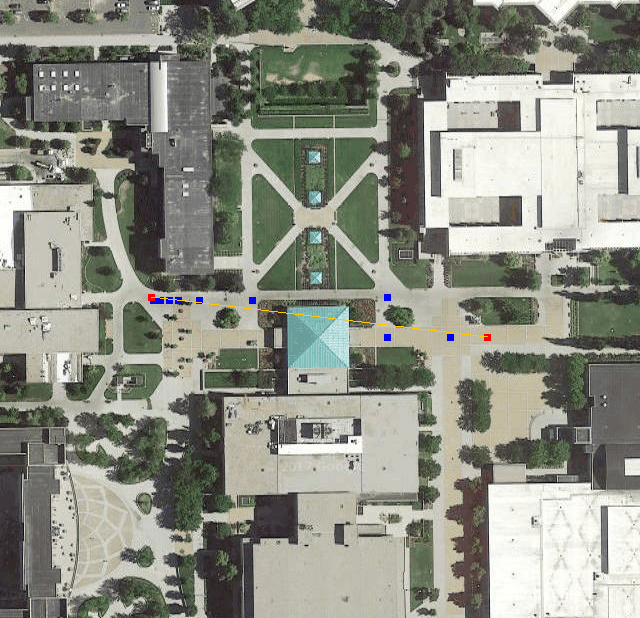
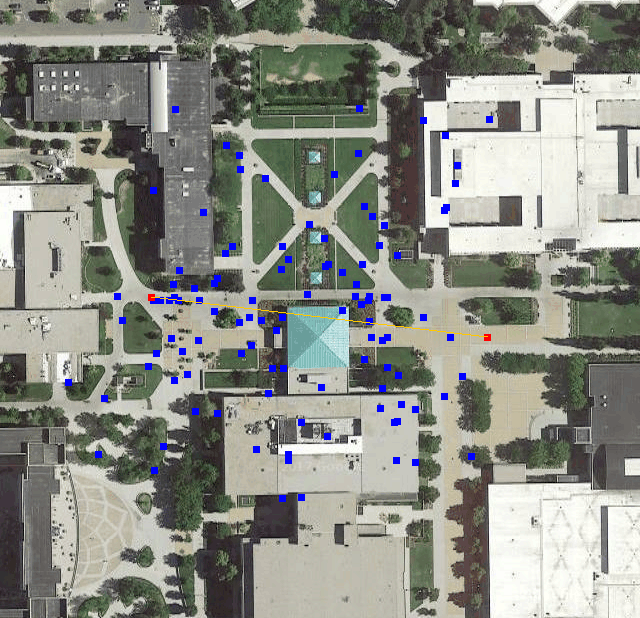
graph tests now works

diff --git a/src/generic/Graph.java b/src/generic/Graph.java
@@ -26,6 +26,24 @@ public class Graph {
 		this.nodes = nodes;
 	}
 
+	public int getStartIndex() {
+		for (int i = 0; i < nodes.size(); i++) {
+			if (nodes.get(i).isStart()) {
+				return i;
+			}
+		}
+		return 0;
+	}
+
+	public int getEndIndex() {
+		for (int i = 0; i < nodes.size(); i++) {
+			if (nodes.get(i).isEnd()) {
+				return i;
+			}
+		}
+		return nodes.size() - 1;
+	}
+
 	public void setDistancesFromNodes() {
 		distance = new double[nodes.size()][nodes.size()];
 		for (int i = 0; i < nodes.size(); i++) {
@@ -50,7 +68,7 @@ public class Graph {
 
 	public void setElevationsFromNodes() {
 		String elevResp = APITools.GetElevationResponse(nodes);
-	    double[] elevs = APITools.GetElevations(elevResp, nodes);
+		double[] elevs = APITools.GetElevations(elevResp, nodes);
 		elevation = new double[nodes.size()][];
 		for (int i = 0; i < nodes.size(); i++) {
 			elevation[i] = new double[nodes.size()];
@@ -76,14 +94,14 @@ public class Graph {
 	public double getDistance(int startNode, int endNode) {
 		return distance[startNode][endNode];
 	}
+
 	public double getElevation(int startNode, int endNode) {
 		return elevation[startNode][endNode];
 	}
-	
-	public double getCost(int startNode, int endNode, UserPrefs prefs)
-	{
-		return (prefs.getDistanceWeight() > 0 ? getDistance(startNode, endNode) * prefs.getDistanceWeight() : 0) +
-			   (prefs.getElevationWeight() > 0 ? getElevation(startNode, endNode) * prefs.getElevationWeight() : 0);
+
+	public double getCost(int startNode, int endNode, UserPrefs prefs) {
+		return (prefs.getDistanceWeight() > 0 ? getDistance(startNode, endNode) * prefs.getDistanceWeight() : 0)
+				+ (prefs.getElevationWeight() > 0 ? getElevation(startNode, endNode) * prefs.getElevationWeight() : 0);
 	}
 
 	public List<Double> getDistanceList(int startNode) {

diff --git a/tests/server/GraphTests.java b/tests/server/GraphTests.java
@@ -80,31 +80,24 @@ public class GraphTests {
 		String[] polyPieces = server.APITools.GetPolylinePieces(resp);
 		String poly = server.APITools.GetOverviewPolyline(resp);
 		List<Node> nodes = generic.GraphTools.CreateNodesFromPolyline(polyPieces);
-
+		nodes.get(0).setStart(true);
+		nodes.get(nodes.size() - 1).setEnd(true);
 		BufferedImage img = server.APITools.DownloadStaticMapImage(start, end, sizeX, sizeY, zoom, true);
 
 		double metersPerPixel = APITools.getMetersPerPixel(center.latitude, zoom);
 		LatLng southwest = APITools.getSouthwest(center, metersPerPixel, sizeX, sizeY);
 		LatLng northeast = APITools.getNortheast(center, metersPerPixel, sizeX, sizeY);
 
-		List<Node> newNodes = generic.GraphTools.GenerateRandomNodes(nodes, 5, southwest, northeast);
-		// nodes.addAll(newNodes);
-
+		List<Node> newNodes = generic.GraphTools.GenerateRandomNodes(nodes, 100, southwest, northeast);
+		nodes.addAll(newNodes);
 		Graph g = new Graph(null, null, nodes);
 		g.setDistancesFromNodes();
 		g.setElevationsFromNodes();
 
-		// GraphTools.WriteGraphToImage(img, g, new Color(255, 0, 0), 2,
-		// southwest, northeast);
-		// img = Tools.ClipLogo(img);
-
-		// Tools.WriteImage(img, "testImages/polytest7.png");
-		List<Integer> path = GraphTools.dijkstra(0, g, nodes.size() - 1);
+		List<Integer> path = GraphTools.dijkstra(g.getStartIndex(), g, g.getEndIndex());
 		List<Node> nodesToDraw = g.getNodesFromPath(path);
 		GraphTools.DrawLines(img, nodesToDraw, Color.BLUE, 3, southwest, northeast, Color.ORANGE, g);
 
-		// GraphTools.WriteGraphToImage(img, g, new Color(255, 0, 0), 2,
-		// southwest, northeast);
 		img = Tools.ClipLogo(img);
 
 		Tools.WriteImage(img, "testImages/dTest1.png");

diff --git a/src/generic/Node.java b/src/generic/Node.java
@@ -5,8 +5,27 @@ import googlemaps.LatLng;
 
 public class Node {
 
+	private boolean startNode = false;
+	private boolean endNode = false;
+
 	public LatLng getPosition() {
 		return position;
+	}
+
+	public boolean isStart() {
+		return startNode;
+	}
+
+	public boolean isEnd() {
+		return endNode;
+	}
+
+	public void setStart(boolean s) {
+		this.startNode = s;
+	}
+
+	public void setEnd(boolean e) {
+		this.endNode = e;
 	}
 
 	public void setPosition(LatLng position) {
